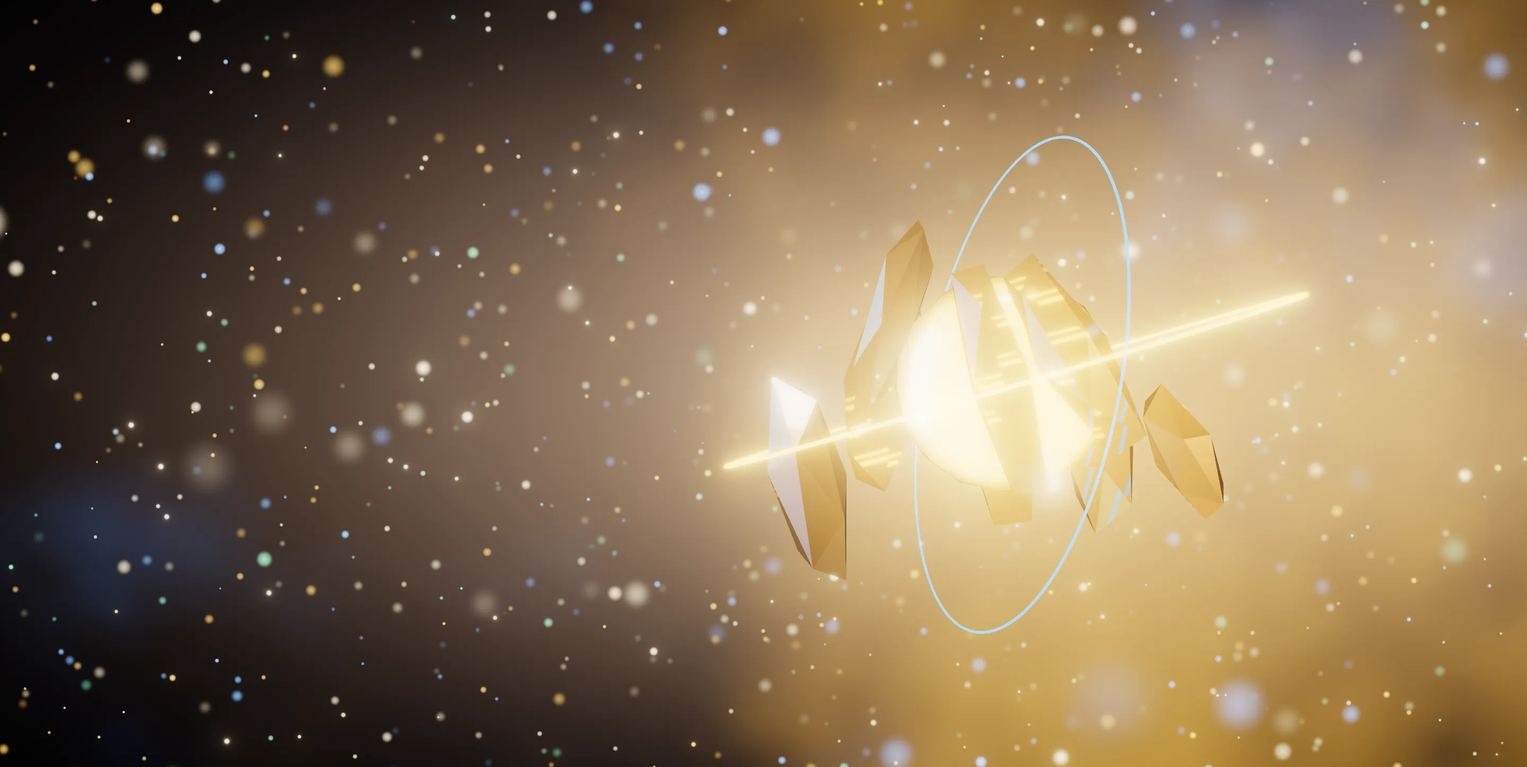
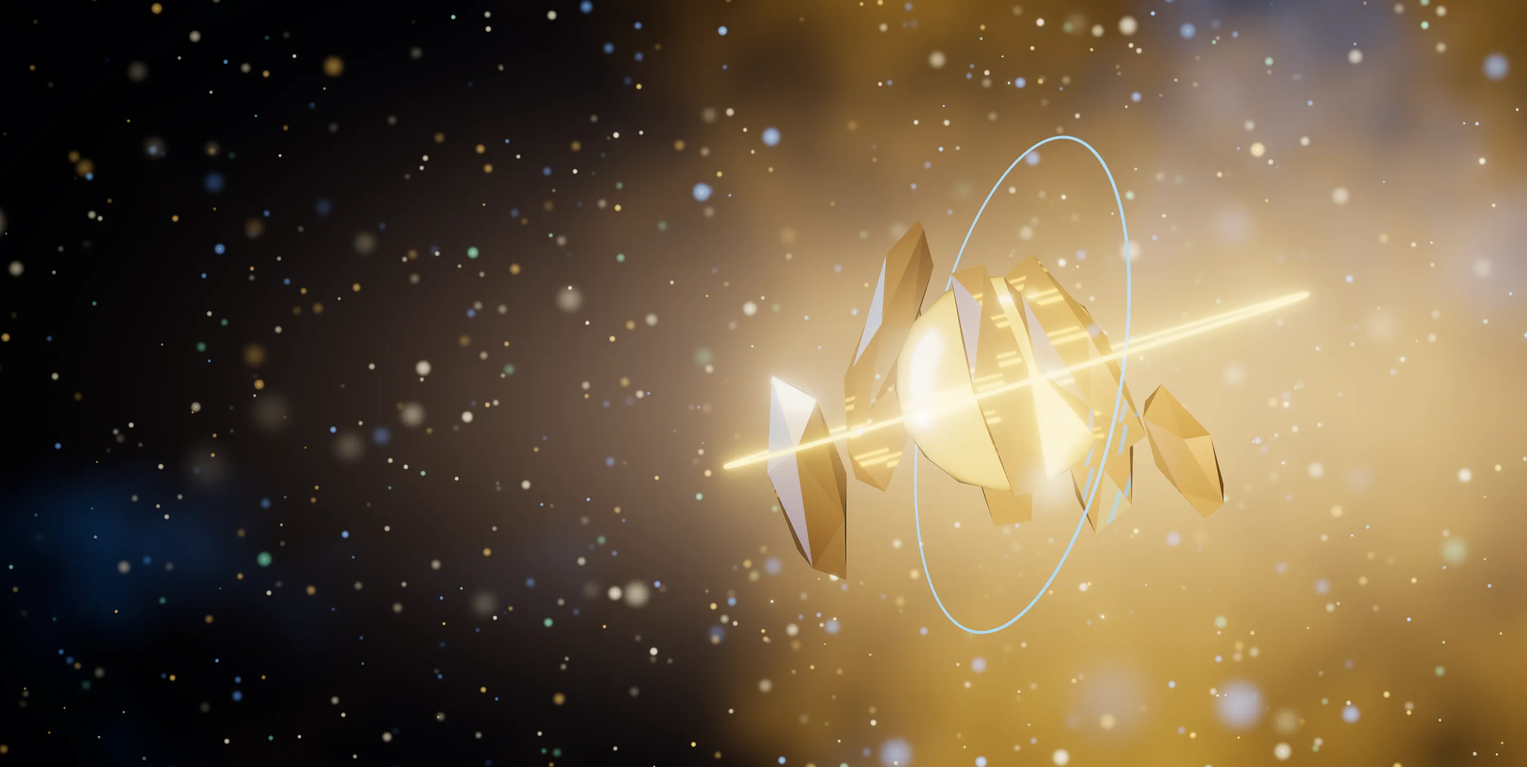
Visual pass v2: apply hero checkpoint steer (console contrast, bloom)
Per Ark's checkpoint review: the console card's glass is darker (ink fill
0.84->0.78, 40px blur, brightness 0.75), the four workflow chips are solid
glass pills, the closing paragraph is brighter, and bloom is pulled down
(0.5/0.7/0.74 -> 0.36/0.6/0.84) so the highlight behind the card no longer
blows out. The copy column also gets a stronger scrim, an ink halo behind
the copy block, dimmer particles on the copy side and a tighter aurora pool
so the headline and lede clear AA against the brightest frames.

Measured with .review/v2-contrast.mjs (text hidden, brightest backdrop over
four frames, 95th percentile): chips >= 15:1, panel text >= 8.5:1, h1 >= 8.4:1,
lede >= 6.9:1 on home, /services and /about. Posters re-rendered from the
final scene. Lighthouse medians unchanged: desktop 100, mobile 87.

diff --git a/assets/hero/hero-scene.min.js b/assets/hero/hero-scene.min.js
@@ -4310,7 +4310,7 @@ void main() {
 
 			#endif
 
-		}`};var qa=class extends Wt{constructor(){super(),this.isOutputPass=!0,this.uniforms=Pn.clone(Bs.uniforms),this.material=new Bi({name:Bs.name,uniforms:this.uniforms,vertexShader:Bs.vertexShader,fragmentShader:Bs.fragmentShader}),this._fsQuad=new jn(this.material),this._outputColorSpace=null,this._toneMapping=null}render(e,t,n){this.uniforms.tDiffuse.value=n.texture,this.uniforms.toneMappingExposure.value=e.toneMappingExposure,(this._outputColorSpace!==e.outputColorSpace||this._toneMapping!==e.toneMapping)&&(this._outputColorSpace=e.outputColorSpace,this._toneMapping=e.toneMapping,this.material.defines={},We.getTransfer(this._outputColorSpace)===$e&&(this.material.defines.SRGB_TRANSFER=""),this._toneMapping===vs?this.material.defines.LINEAR_TONE_MAPPING="":this._toneMapping===ys?this.material.defines.REINHARD_TONE_MAPPING="":this._toneMapping===Ms?this.material.defines.CINEON_TONE_MAPPING="":this._toneMapping===ui?this.material.defines.ACES_FILMIC_TONE_MAPPING="":this._toneMapping===bs?this.material.defines.AGX_TONE_MAPPING="":this._toneMapping===Ts?this.material.defines.NEUTRAL_TONE_MAPPING="":this._toneMapping===Ss&&(this.material.defines.CUSTOM_TONE_MAPPING=""),this.material.needsUpdate=!0),this.renderToScreen===!0?(e.setRenderTarget(null),this._fsQuad.render(e)):(e.setRenderTarget(t),this.clear&&e.clear(e.autoClearColor,e.autoClearDepth,e.autoClearStencil),this._fsQuad.render(e))}dispose(){this.material.dispose(),this._fsQuad.dispose()}};var oh=Math.PI/180,gl=34,zs=10,lh=-8,ch=6,ph=20260905,hh=461590,Jm=15119690,$m=4889574;var uh={home:{build:ng,particles:{full:2600,lite:900},desktop:{anchor:[.61,.06],scale:.94,leftDark:1,core:[.78,.48]},mobile:{anchor:[.74,.6],scale:.5,leftDark:.2,core:[.82,.8]}},services:{build:ig,particles:{full:1800,lite:700},desktop:{anchor:[.56,0],scale:.74,leftDark:1,core:[.76,.5]},mobile:{anchor:[.62,.5],scale:.38,leftDark:.2,core:[.8,.75]}},about:{build:sg,particles:{full:1800,lite:700},desktop:{anchor:[.5,0],scale:.88,leftDark:1,core:[.72,.5]},mobile:{anchor:[.66,.5],scale:.44,leftDark:.2,core:[.8,.75]}}},Km=`
+		}`};var qa=class extends Wt{constructor(){super(),this.isOutputPass=!0,this.uniforms=Pn.clone(Bs.uniforms),this.material=new Bi({name:Bs.name,uniforms:this.uniforms,vertexShader:Bs.vertexShader,fragmentShader:Bs.fragmentShader}),this._fsQuad=new jn(this.material),this._outputColorSpace=null,this._toneMapping=null}render(e,t,n){this.uniforms.tDiffuse.value=n.texture,this.uniforms.toneMappingExposure.value=e.toneMappingExposure,(this._outputColorSpace!==e.outputColorSpace||this._toneMapping!==e.toneMapping)&&(this._outputColorSpace=e.outputColorSpace,this._toneMapping=e.toneMapping,this.material.defines={},We.getTransfer(this._outputColorSpace)===$e&&(this.material.defines.SRGB_TRANSFER=""),this._toneMapping===vs?this.material.defines.LINEAR_TONE_MAPPING="":this._toneMapping===ys?this.material.defines.REINHARD_TONE_MAPPING="":this._toneMapping===Ms?this.material.defines.CINEON_TONE_MAPPING="":this._toneMapping===ui?this.material.defines.ACES_FILMIC_TONE_MAPPING="":this._toneMapping===bs?this.material.defines.AGX_TONE_MAPPING="":this._toneMapping===Ts?this.material.defines.NEUTRAL_TONE_MAPPING="":this._toneMapping===Ss&&(this.material.defines.CUSTOM_TONE_MAPPING=""),this.material.needsUpdate=!0),this.renderToScreen===!0?(e.setRenderTarget(null),this._fsQuad.render(e)):(e.setRenderTarget(t),this.clear&&e.clear(e.autoClearColor,e.autoClearDepth,e.autoClearStencil),this._fsQuad.render(e))}dispose(){this.material.dispose(),this._fsQuad.dispose()}};var oh=Math.PI/180,gl=34,zs=10,lh=-8,ch=6,ph=20260905,hh=461590,Jm=15119690,$m=4889574;var uh={home:{build:ng,particles:{full:2600,lite:900},desktop:{anchor:[.61,.06],scale:.94,leftDark:1,core:[.83,.46]},mobile:{anchor:[.74,.6],scale:.5,leftDark:.2,core:[.82,.8]}},services:{build:ig,particles:{full:1800,lite:700},desktop:{anchor:[.56,0],scale:.74,leftDark:1,core:[.81,.48]},mobile:{anchor:[.62,.5],scale:.38,leftDark:.2,core:[.8,.75]}},about:{build:sg,particles:{full:1800,lite:700},desktop:{anchor:[.5,0],scale:.88,leftDark:1,core:[.78,.48]},mobile:{anchor:[.66,.5],scale:.44,leftDark:.2,core:[.8,.75]}}},Km=`
   varying vec2 vUv;
   void main() {
     vUv = uv;
@@ -4373,7 +4373,7 @@ void main() {
 
     // A soft pool of light where the sculpture sits, so the glass has something to refract.
     vec2 d = (uv - uCore) * vec2(1.0, 1.35);
-    float core = exp(-dot(d, d) * 7.0);
+    float core = exp(-dot(d, d) * 11.0);
     col += (uGold * 0.72 + uBlue * 0.46) * core * (0.75 + 0.25 * n2);
 
     // Keep the copy column deep for contrast.
@@ -4394,6 +4394,7 @@ void main() {
   uniform float uScale;
   uniform float uFocus;
   uniform float uMaxSize;
+  uniform float uLeftDark;
   varying vec3 vColor;
   varying float vAlpha;
   varying float vSoft;
@@ -4409,9 +4410,12 @@ void main() {
     gl_PointSize = min(uMaxSize, size * uScale / max(dist, 0.5));
     float twinkle = 0.72 + 0.28 * sin(uTime * 1.4 + aPhase * 21.0);
     vAlpha = twinkle * mix(1.0, 0.14, blur) * smoothstep(0.6, 3.0, dist);
+    gl_Position = projectionMatrix * mv;
+    // Dim the field under the copy column so text never sits on a bright point.
+    float sx = gl_Position.x / gl_Position.w * 0.5 + 0.5;
+    vAlpha *= mix(1.0, 0.3, uLeftDark * smoothstep(0.62, 0.05, sx));
     vSoft = blur;
     vColor = aColor;
-    gl_Position = projectionMatrix * mv;
   }
 `,eg=`
   uniform float uAlpha;
@@ -4430,4 +4434,4 @@ void main() {
     #include <tonemapping_fragment>
     #include <colorspace_fragment>
   }
-`;function mh(i){let e=i>>>0;return()=>{e=e+1831565813>>>0;let t=e;return t=Math.imul(t^t>>>15,t|1),t^=t+Math.imul(t^t>>>7,t|61),((t^t>>>14)>>>0)/4294967296}}function tg(i){let e=new Wi(i),t=new Ni,n=new Ke(new Cn(24,24,16),new tn({color:659744,side:Rt}));t.add(n);let s=(a,o,l,c)=>{let u=new Ke(new Hn(c[0],c[1]),new tn({color:new Ae(a).multiplyScalar(o),side:Yt}));u.position.set(l[0],l[1],l[2]),u.lookAt(0,0,0),t.add(u)};s(16765562,7,[7,8,5],[10,4]),s(7320831,5,[-9,2,-4],[7,9]),s(16777215,10,[0,11,-2],[12,1.2]),s(9430205,3,[3,-9,3],[8,3]),s(15119690,4,[9,-3,7],[3,7]);let r=e.fromScene(t,.035).texture;return t.traverse(a=>{var o,l;(o=a.geometry)==null||o.dispose(),(l=a.material)==null||l.dispose()}),e.dispose(),r}function dh(i={}){return new ps({color:16777215,metalness:0,roughness:.09,transmission:1,thickness:1.6,ior:1.46,attenuationColor:new Ae(16112032),attenuationDistance:3.2,iridescence:.85,iridescenceIOR:1.35,iridescenceThicknessRange:[140,520],clearcoat:1,clearcoatRoughness:.06,envMapIntensity:1.35,specularIntensity:1,...i})}function fh(i,e){return new tn({color:new Ae(i).multiplyScalar(e)})}function ng(i,e){let t=new en,n=new Ke(new fs(1.42,.4,e?170:300,e?24:44,2,3),i.glass),s=new Ke(new Cn(.64,48,32),i.core),r=new Ke(new pn(2.55,.02,10,220),i.gold),a=new Ke(new pn(2.95,.013,10,240),i.blue);r.rotation.set(1.25,.2,0),a.rotation.set(.55,.9,.3);let o=[0,1,2,3].map(l=>{let c=new Ke(new ds(.24+l*.05,0),i.glass);return c.scale.set(1,1.7,1),c});return t.add(n,s,r,a,...o),{group:t,update(l){n.rotation.y=l*.12,n.rotation.x=Math.sin(l*.17)*.35,n.rotation.z=Math.cos(l*.11)*.2,s.scale.setScalar(1+Math.sin(l*.9)*.04),r.rotation.z=l*.08,r.rotation.x=1.25+Math.sin(l*.13)*.25,a.rotation.z=-l*.06,a.rotation.y=.9+Math.cos(l*.1)*.3,o.forEach((c,u)=>{let d=l*(.16+u*.035)+u*1.7,h=2.55+u*.28;c.position.set(Math.cos(d)*h,Math.sin(d*.7+u)*1.35,Math.sin(d)*h*.6),c.rotation.x=l*.5+u,c.rotation.y=l*.4})}}}function ig(i,e){let t=new en,n=new Ke(new Cn(1.12,e?40:72,e?28:48),i.glass),s=new Ke(new Cn(.5,40,28),i.core),r=[1.85,2.2,2.55].map((l,c)=>new Ke(new pn(l,.13-c*.03,e?16:28,e?110:180),i.glass));r[0].rotation.set(1.1,.3,0),r[1].rotation.set(.5,1.2,.4),r[2].rotation.set(1.9,-.6,.2);let a=new Ke(new pn(2.9,.016,10,240),i.gold);a.rotation.set(1.4,.4,0);let o=[0,1,2].map(l=>new Ke(new Cn(.16+l*.05,24,16),i.glass));return t.add(n,s,...r,a,...o),{group:t,update(l){n.rotation.y=l*.1,s.scale.setScalar(1+Math.sin(l*.8)*.05),r.forEach((c,u)=>{c.rotation.z+=0,c.rotation.y=(u%2?-1:1)*l*(.09+u*.03)+u,c.rotation.x=[1.1,.5,1.9][u]+Math.sin(l*.15+u)*.2}),a.rotation.z=l*.07,o.forEach((c,u)=>{let d=l*(.32-u*.05)+u*2.1,h=1.85+u*.35;c.position.set(Math.cos(d)*h,Math.sin(d)*h*.42,Math.sin(d+u)*h*.5)})}}}function sg(i,e){let t=new en,n=mh(ph+7),s=[],r=i.glass.clone();r.roughness=.04,r.attenuationColor=new Ae(16242060),r.attenuationDistance=1.6,r.iridescence=1,r.envMapIntensity=2;let a=i.core.clone();a.emissiveIntensity=1.1;for(let u=0;u<8;u+=1){let d=.4+n()*.46,h=new Ke(new Oi(d,0),r);h.scale.set(.55+n()*.2,1.5+n()*.9,.55+n()*.2);let p=u/8*Math.PI*2+n()*.5,x=.8+n()*1.3;h.position.set(Math.cos(p)*x,(n()-.5)*1.6,Math.sin(p)*x),h.rotation.set(n()*1.2-.6,p,n()*.8-.4),h.userData.spin=.05+n()*.08,s.push(h)}let o=new Ke(new Oi(1.05,e?1:2),a),l=new Ke(new pn(2.7,.018,10,220),i.gold),c=new Ke(new pn(2.3,.012,10,200),i.blue);return l.rotation.set(1.35,.2,0),c.rotation.set(.4,1.1,.5),t.add(o,l,c,...s),{group:t,update(u){t.rotation.y=u*.09,o.rotation.y=-u*.2,o.rotation.x=Math.sin(u*.3)*.4,o.scale.setScalar(1+Math.sin(u*.7)*.04),s.forEach((d,h)=>{d.rotation.y+=0,d.position.y+=Math.sin(u*.5+h)*9e-4,d.rotation.z=Math.sin(u*d.userData.spin*4+h)*.35}),l.rotation.z=u*.06,c.rotation.z=-u*.05}}}function rg(i,e){let t=new Float32Array(i*3),n=new Float32Array(i*3),s=new Float32Array(i),r=new Float32Array(i),a=[[16773583,.42],[16764778,.24],[8830975,.22],[9431231,.12]],o=new Ae;for(let c=0;c<i;c+=1){let u=e()<.12;t[c*3]=(e()*2-1)*9.5,t[c*3+1]=(e()*2-1)*5,t[c*3+2]=u?5+e()*2.5:-7+e()*12;let d=e(),h=a[0][0];for(let[p,x]of a)if(d-=x,d<=0){h=p;break}o.set(h),n[c*3]=o.r,n[c*3+1]=o.g,n[c*3+2]=o.b,s[c]=.05+e()*.11+(e()<.06?.16:0),r[c]=e()}let l=new yt;return l.setAttribute("position",new At(t,3)),l.setAttribute("aColor",new At(n,3)),l.setAttribute("aSize",new At(s,1)),l.setAttribute("aPhase",new At(r,1)),l}function mv(i){if(!i||i.dataset.heroMounted)return null;let e=uh[i.dataset.heroVariant]||uh.home,t=window.matchMedia("(pointer: coarse)").matches,n=window.matchMedia("(pointer: fine)").matches,s=t||(navigator.hardwareConcurrency||8)<=4,r=s?1.25:1.5,a=document.createElement("canvas");a.setAttribute("data-hero-canvas",""),a.setAttribute("aria-hidden","true");let o;try{o=new za({canvas:a,antialias:s,alpha:!1,powerPreference:s?"default":"high-performance"})}catch{return null}o.toneMapping=ui,o.toneMappingExposure=1.05,o.transmissionResolutionScale=s?.5:.75,o.setClearColor(hh,1);let l=mh(ph),c=new Ni,u=tg(o);c.environment=u;let d=new Dt(gl,1,.5,60);d.position.set(0,0,zs);let h=new ct({uniforms:{uTime:{value:0},uAspect:{value:1},uLeftDark:{value:1},uCore:{value:new Ce(.72,.5)},uInk:{value:new Ae(hh)},uGold:{value:new Ae(13145389)},uBlue:{value:new Ae(3043240)},uGreen:{value:new Ae(3115614)}},vertexShader:Km,fragmentShader:Qm,depthWrite:!1}),p=new Ke(new Hn(1,1),h);p.position.z=lh,p.frustumCulled=!1,c.add(p);let x={glass:dh(),core:dh({color:16769958,roughness:.18,thickness:.8,transmission:.85,emissive:new Ae(15119690),emissiveIntensity:.55,iridescence:.4}),gold:fh(Jm,2.6),blue:fh($m,2.2)},M=e.build(x,s);c.add(M.group);let m=rg(s?e.particles.lite:e.particles.full,l),f=new ct({uniforms:{uTime:{value:0},uScale:{value:300},uFocus:{value:zs},uMaxSize:{value:180},uAlpha:{value:.9}},vertexShader:jm,fragmentShader:eg,transparent:!0,depthWrite:!1,blending:hi}),y=new ls(m,f);y.frustumCulled=!1,c.add(y);let S=new ci(16766346,2.4);S.position.set(5,6,7);let T=new ci(7319807,1.9);T.position.set(-6,-3,-4);let C=new ci(9431231,.5);C.position.set(0,-6,3),c.add(S,T,C);let A=null,R=null;if(!s){let me=new xt(1,1,{type:wt,samples:4});A=new Wa(o,me),A.addPass(new Xa(c,d)),R=new Yi(new Ce(1,1),.5,.7,.74),A.addPass(R),A.addPass(new qa)}let _=ch,E=0,I=0,w=0,F=!0,H=!1,W=0,U=0,V=0,k=0,$=e.desktop;function j(me,De){M.update(me),h.uniforms.uTime.value=me,f.uniforms.uTime.value=me;let Ie=Math.min(1,De*2.2);V+=(W-V)*Ie,k+=(U-k)*Ie,d.position.x=Math.sin(me*.07)*.28+V*.5,d.position.y=Math.cos(me*.05)*.18-k*.34,d.position.z=zs+Math.sin(me*.04)*.25,d.lookAt(M.group.position.x*.35,M.group.position.y*.35,0)}function oe(){A?A.render():o.render(c,d)}function ve(me){if(w=0,H)return;if(s&&me-I<31){w=window.requestAnimationFrame(ve);return}let De=Math.min((me-E)/1e3,.05);E=me,I=me,_+=De,j(_,De),oe(),w=window.requestAnimationFrame(ve)}function ye(){let me=F&&!document.hidden&&!H;me&&!w?(E=performance.now(),w=window.requestAnimationFrame(ve)):!me&&w&&(window.cancelAnimationFrame(w),w=0)}function Xe(me,De,Ie){o.setPixelRatio(Ie),o.setSize(me,De,!1),d.aspect=me/De,d.updateProjectionMatrix(),A&&(A.setPixelRatio(Ie),A.setSize(me,De)),$=me<760?e.mobile:e.desktop;let lt=Math.tan(gl/2*oh)*zs,nt=lt*d.aspect;M.group.position.set($.anchor[0]*nt,$.anchor[1]*lt,0),M.group.scale.setScalar($.scale);let bt=2*(zs-lh)*Math.tan(gl/2*oh)*1.3;p.scale.set(bt*d.aspect,bt,1),h.uniforms.uAspect.value=d.aspect,h.uniforms.uLeftDark.value=$.leftDark,h.uniforms.uCore.value.set($.core[0],$.core[1]),f.uniforms.uScale.value=De*Ie*.62,f.uniforms.uMaxSize.value=150*Ie}function Ze(){let me=Math.max(1,i.clientWidth),De=Math.max(1,i.clientHeight);Xe(me,De,Math.min(window.devicePixelRatio||1,r)),w||(j(_,0),oe())}function Fe(me,De,Ie=ch,lt=.82,nt=1){let bt=Math.max(1,i.clientWidth),L=Math.max(1,i.clientHeight),pt=o.getPixelRatio();Xe(me,De,nt);let He=W,Qe=U;W=U=V=k=0,j(Ie,0),oe();let ce=a.toDataURL("image/webp",lt);return W=He,U=Qe,Xe(bt,L,pt),j(_,0),oe(),ce}let Y="IntersectionObserver"in window?new IntersectionObserver(me=>{F=me.some(De=>De.isIntersecting),ye()},{threshold:0}):null,le="ResizeObserver"in window?new ResizeObserver(Ze):null,ee=()=>ye(),Ee=me=>{W=me.clientX/window.innerWidth*2-1,U=me.clientY/window.innerHeight*2-1},Le=me=>{me.preventDefault(),i.classList.remove("is-ready"),w&&(window.cancelAnimationFrame(w),w=0)},we=()=>{i.classList.add("is-ready"),ye()};function tt(){H||(H=!0,w&&window.cancelAnimationFrame(w),w=0,Y==null||Y.disconnect(),le==null||le.disconnect(),document.removeEventListener("visibilitychange",ee),window.removeEventListener("pointermove",Ee),window.removeEventListener("pagehide",tt),a.removeEventListener("webglcontextlost",Le),a.removeEventListener("webglcontextrestored",we),i.classList.remove("is-ready"),delete i.dataset.heroMounted,delete i.heroScene,c.traverse(me=>{var De;(De=me.geometry)==null||De.dispose(),me.material&&!Object.values(x).includes(me.material)&&me.material.dispose()}),Object.values(x).forEach(me=>me.dispose()),h.dispose(),f.dispose(),u.dispose(),R==null||R.dispose(),A==null||A.renderTarget1.dispose(),A==null||A.renderTarget2.dispose(),o.dispose(),a.remove())}i.appendChild(a),i.dataset.heroMounted="1",Ze(),j(_,0),oe(),i.classList.add("is-ready"),Y==null||Y.observe(i),le==null||le.observe(i),document.addEventListener("visibilitychange",ee),n&&window.addEventListener("pointermove",Ee,{passive:!0}),window.addEventListener("pagehide",tt,{once:!0}),a.addEventListener("webglcontextlost",Le),a.addEventListener("webglcontextrestored",we),ye();let ke={snapshot:Fe,dispose:tt,resize:Ze,lite:s,get running(){return w!==0}};return i.heroScene=ke,ke}export{mv as mountHeroScene};
+`;function mh(i){let e=i>>>0;return()=>{e=e+1831565813>>>0;let t=e;return t=Math.imul(t^t>>>15,t|1),t^=t+Math.imul(t^t>>>7,t|61),((t^t>>>14)>>>0)/4294967296}}function tg(i){let e=new Wi(i),t=new Ni,n=new Ke(new Cn(24,24,16),new tn({color:659744,side:Rt}));t.add(n);let s=(a,o,l,c)=>{let u=new Ke(new Hn(c[0],c[1]),new tn({color:new Ae(a).multiplyScalar(o),side:Yt}));u.position.set(l[0],l[1],l[2]),u.lookAt(0,0,0),t.add(u)};s(16765562,7,[7,8,5],[10,4]),s(7320831,5,[-9,2,-4],[7,9]),s(16777215,10,[0,11,-2],[12,1.2]),s(9430205,3,[3,-9,3],[8,3]),s(15119690,4,[9,-3,7],[3,7]);let r=e.fromScene(t,.035).texture;return t.traverse(a=>{var o,l;(o=a.geometry)==null||o.dispose(),(l=a.material)==null||l.dispose()}),e.dispose(),r}function dh(i={}){return new ps({color:16777215,metalness:0,roughness:.09,transmission:1,thickness:1.6,ior:1.46,attenuationColor:new Ae(16112032),attenuationDistance:3.2,iridescence:.85,iridescenceIOR:1.35,iridescenceThicknessRange:[140,520],clearcoat:1,clearcoatRoughness:.06,envMapIntensity:1.35,specularIntensity:1,...i})}function fh(i,e){return new tn({color:new Ae(i).multiplyScalar(e)})}function ng(i,e){let t=new en,n=new Ke(new fs(1.42,.4,e?170:300,e?24:44,2,3),i.glass),s=new Ke(new Cn(.64,48,32),i.core),r=new Ke(new pn(2.55,.02,10,220),i.gold),a=new Ke(new pn(2.95,.013,10,240),i.blue);r.rotation.set(1.25,.2,0),a.rotation.set(.55,.9,.3);let o=[0,1,2,3].map(l=>{let c=new Ke(new ds(.24+l*.05,0),i.glass);return c.scale.set(1,1.7,1),c});return t.add(n,s,r,a,...o),{group:t,update(l){n.rotation.y=l*.12,n.rotation.x=Math.sin(l*.17)*.35,n.rotation.z=Math.cos(l*.11)*.2,s.scale.setScalar(1+Math.sin(l*.9)*.04),r.rotation.z=l*.08,r.rotation.x=1.25+Math.sin(l*.13)*.25,a.rotation.z=-l*.06,a.rotation.y=.9+Math.cos(l*.1)*.3,o.forEach((c,u)=>{let d=l*(.16+u*.035)+u*1.7,h=2.55+u*.28;c.position.set(Math.cos(d)*h,Math.sin(d*.7+u)*1.35,Math.sin(d)*h*.6),c.rotation.x=l*.5+u,c.rotation.y=l*.4})}}}function ig(i,e){let t=new en,n=new Ke(new Cn(1.12,e?40:72,e?28:48),i.glass),s=new Ke(new Cn(.5,40,28),i.core),r=[1.85,2.2,2.55].map((l,c)=>new Ke(new pn(l,.13-c*.03,e?16:28,e?110:180),i.glass));r[0].rotation.set(1.1,.3,0),r[1].rotation.set(.5,1.2,.4),r[2].rotation.set(1.9,-.6,.2);let a=new Ke(new pn(2.9,.016,10,240),i.gold);a.rotation.set(1.4,.4,0);let o=[0,1,2].map(l=>new Ke(new Cn(.16+l*.05,24,16),i.glass));return t.add(n,s,...r,a,...o),{group:t,update(l){n.rotation.y=l*.1,s.scale.setScalar(1+Math.sin(l*.8)*.05),r.forEach((c,u)=>{c.rotation.z+=0,c.rotation.y=(u%2?-1:1)*l*(.09+u*.03)+u,c.rotation.x=[1.1,.5,1.9][u]+Math.sin(l*.15+u)*.2}),a.rotation.z=l*.07,o.forEach((c,u)=>{let d=l*(.32-u*.05)+u*2.1,h=1.85+u*.35;c.position.set(Math.cos(d)*h,Math.sin(d)*h*.42,Math.sin(d+u)*h*.5)})}}}function sg(i,e){let t=new en,n=mh(ph+7),s=[],r=i.glass.clone();r.roughness=.04,r.attenuationColor=new Ae(16242060),r.attenuationDistance=1.6,r.iridescence=1,r.envMapIntensity=2;let a=i.core.clone();a.emissiveIntensity=1.1;for(let u=0;u<8;u+=1){let d=.4+n()*.46,h=new Ke(new Oi(d,0),r);h.scale.set(.55+n()*.2,1.5+n()*.9,.55+n()*.2);let p=u/8*Math.PI*2+n()*.5,x=.8+n()*1.3;h.position.set(Math.cos(p)*x,(n()-.5)*1.6,Math.sin(p)*x),h.rotation.set(n()*1.2-.6,p,n()*.8-.4),h.userData.spin=.05+n()*.08,s.push(h)}let o=new Ke(new Oi(1.05,e?1:2),a),l=new Ke(new pn(2.7,.018,10,220),i.gold),c=new Ke(new pn(2.3,.012,10,200),i.blue);return l.rotation.set(1.35,.2,0),c.rotation.set(.4,1.1,.5),t.add(o,l,c,...s),{group:t,update(u){t.rotation.y=u*.09,o.rotation.y=-u*.2,o.rotation.x=Math.sin(u*.3)*.4,o.scale.setScalar(1+Math.sin(u*.7)*.04),s.forEach((d,h)=>{d.rotation.y+=0,d.position.y+=Math.sin(u*.5+h)*9e-4,d.rotation.z=Math.sin(u*d.userData.spin*4+h)*.35}),l.rotation.z=u*.06,c.rotation.z=-u*.05}}}function rg(i,e){let t=new Float32Array(i*3),n=new Float32Array(i*3),s=new Float32Array(i),r=new Float32Array(i),a=[[16773583,.42],[16764778,.24],[8830975,.22],[9431231,.12]],o=new Ae;for(let c=0;c<i;c+=1){let u=e()<.12;t[c*3]=(e()*2-1)*9.5,t[c*3+1]=(e()*2-1)*5,t[c*3+2]=u?5+e()*2.5:-7+e()*12;let d=e(),h=a[0][0];for(let[p,x]of a)if(d-=x,d<=0){h=p;break}o.set(h),n[c*3]=o.r,n[c*3+1]=o.g,n[c*3+2]=o.b,s[c]=.05+e()*.11+(e()<.06?.16:0),r[c]=e()}let l=new yt;return l.setAttribute("position",new At(t,3)),l.setAttribute("aColor",new At(n,3)),l.setAttribute("aSize",new At(s,1)),l.setAttribute("aPhase",new At(r,1)),l}function mv(i){if(!i||i.dataset.heroMounted)return null;let e=uh[i.dataset.heroVariant]||uh.home,t=window.matchMedia("(pointer: coarse)").matches,n=window.matchMedia("(pointer: fine)").matches,s=t||(navigator.hardwareConcurrency||8)<=4,r=s?1.25:1.5,a=document.createElement("canvas");a.setAttribute("data-hero-canvas",""),a.setAttribute("aria-hidden","true");let o;try{o=new za({canvas:a,antialias:s,alpha:!1,powerPreference:s?"default":"high-performance"})}catch{return null}o.toneMapping=ui,o.toneMappingExposure=1.05,o.transmissionResolutionScale=s?.5:.75,o.setClearColor(hh,1);let l=mh(ph),c=new Ni,u=tg(o);c.environment=u;let d=new Dt(gl,1,.5,60);d.position.set(0,0,zs);let h=new ct({uniforms:{uTime:{value:0},uAspect:{value:1},uLeftDark:{value:1},uCore:{value:new Ce(.72,.5)},uInk:{value:new Ae(hh)},uGold:{value:new Ae(13145389)},uBlue:{value:new Ae(3043240)},uGreen:{value:new Ae(3115614)}},vertexShader:Km,fragmentShader:Qm,depthWrite:!1}),p=new Ke(new Hn(1,1),h);p.position.z=lh,p.frustumCulled=!1,c.add(p);let x={glass:dh(),core:dh({color:16769958,roughness:.18,thickness:.8,transmission:.85,emissive:new Ae(15119690),emissiveIntensity:.55,iridescence:.4}),gold:fh(Jm,2.6),blue:fh($m,2.2)},M=e.build(x,s);c.add(M.group);let m=rg(s?e.particles.lite:e.particles.full,l),f=new ct({uniforms:{uTime:{value:0},uScale:{value:300},uFocus:{value:zs},uMaxSize:{value:180},uAlpha:{value:.9},uLeftDark:{value:1}},vertexShader:jm,fragmentShader:eg,transparent:!0,depthWrite:!1,blending:hi}),y=new ls(m,f);y.frustumCulled=!1,c.add(y);let S=new ci(16766346,2.4);S.position.set(5,6,7);let T=new ci(7319807,1.9);T.position.set(-6,-3,-4);let C=new ci(9431231,.5);C.position.set(0,-6,3),c.add(S,T,C);let A=null,R=null;if(!s){let me=new xt(1,1,{type:wt,samples:4});A=new Wa(o,me),A.addPass(new Xa(c,d)),R=new Yi(new Ce(1,1),.36,.6,.84),A.addPass(R),A.addPass(new qa)}let _=ch,E=0,I=0,w=0,F=!0,H=!1,W=0,U=0,V=0,k=0,$=e.desktop;function j(me,De){M.update(me),h.uniforms.uTime.value=me,f.uniforms.uTime.value=me;let Ie=Math.min(1,De*2.2);V+=(W-V)*Ie,k+=(U-k)*Ie,d.position.x=Math.sin(me*.07)*.28+V*.5,d.position.y=Math.cos(me*.05)*.18-k*.34,d.position.z=zs+Math.sin(me*.04)*.25,d.lookAt(M.group.position.x*.35,M.group.position.y*.35,0)}function oe(){A?A.render():o.render(c,d)}function ve(me){if(w=0,H)return;if(s&&me-I<31){w=window.requestAnimationFrame(ve);return}let De=Math.min((me-E)/1e3,.05);E=me,I=me,_+=De,j(_,De),oe(),w=window.requestAnimationFrame(ve)}function ye(){let me=F&&!document.hidden&&!H;me&&!w?(E=performance.now(),w=window.requestAnimationFrame(ve)):!me&&w&&(window.cancelAnimationFrame(w),w=0)}function Xe(me,De,Ie){o.setPixelRatio(Ie),o.setSize(me,De,!1),d.aspect=me/De,d.updateProjectionMatrix(),A&&(A.setPixelRatio(Ie),A.setSize(me,De)),$=me<760?e.mobile:e.desktop;let lt=Math.tan(gl/2*oh)*zs,nt=lt*d.aspect;M.group.position.set($.anchor[0]*nt,$.anchor[1]*lt,0),M.group.scale.setScalar($.scale);let bt=2*(zs-lh)*Math.tan(gl/2*oh)*1.3;p.scale.set(bt*d.aspect,bt,1),h.uniforms.uAspect.value=d.aspect,h.uniforms.uLeftDark.value=$.leftDark,h.uniforms.uCore.value.set($.core[0],$.core[1]),f.uniforms.uScale.value=De*Ie*.62,f.uniforms.uMaxSize.value=150*Ie,f.uniforms.uLeftDark.value=$.leftDark}function Ze(){let me=Math.max(1,i.clientWidth),De=Math.max(1,i.clientHeight);Xe(me,De,Math.min(window.devicePixelRatio||1,r)),w||(j(_,0),oe())}function Fe(me,De,Ie=ch,lt=.82,nt=1){let bt=Math.max(1,i.clientWidth),L=Math.max(1,i.clientHeight),pt=o.getPixelRatio();Xe(me,De,nt);let He=W,Qe=U;W=U=V=k=0,j(Ie,0),oe();let ce=a.toDataURL("image/webp",lt);return W=He,U=Qe,Xe(bt,L,pt),j(_,0),oe(),ce}let Y="IntersectionObserver"in window?new IntersectionObserver(me=>{F=me.some(De=>De.isIntersecting),ye()},{threshold:0}):null,le="ResizeObserver"in window?new ResizeObserver(Ze):null,ee=()=>ye(),Ee=me=>{W=me.clientX/window.innerWidth*2-1,U=me.clientY/window.innerHeight*2-1},Le=me=>{me.preventDefault(),i.classList.remove("is-ready"),w&&(window.cancelAnimationFrame(w),w=0)},we=()=>{i.classList.add("is-ready"),ye()};function tt(){H||(H=!0,w&&window.cancelAnimationFrame(w),w=0,Y==null||Y.disconnect(),le==null||le.disconnect(),document.removeEventListener("visibilitychange",ee),window.removeEventListener("pointermove",Ee),window.removeEventListener("pagehide",tt),a.removeEventListener("webglcontextlost",Le),a.removeEventListener("webglcontextrestored",we),i.classList.remove("is-ready"),delete i.dataset.heroMounted,delete i.heroScene,c.traverse(me=>{var De;(De=me.geometry)==null||De.dispose(),me.material&&!Object.values(x).includes(me.material)&&me.material.dispose()}),Object.values(x).forEach(me=>me.dispose()),h.dispose(),f.dispose(),u.dispose(),R==null||R.dispose(),A==null||A.renderTarget1.dispose(),A==null||A.renderTarget2.dispose(),o.dispose(),a.remove())}i.appendChild(a),i.dataset.heroMounted="1",Ze(),j(_,0),oe(),i.classList.add("is-ready"),Y==null||Y.observe(i),le==null||le.observe(i),document.addEventListener("visibilitychange",ee),n&&window.addEventListener("pointermove",Ee,{passive:!0}),window.addEventListener("pagehide",tt,{once:!0}),a.addEventListener("webglcontextlost",Le),a.addEventListener("webglcontextrestored",we),ye();let ke={snapshot:Fe,dispose:tt,resize:Ze,lite:s,get running(){return w!==0}};return i.heroScene=ke,ke}export{mv as mountHeroScene};

diff --git a/styles.css b/styles.css
@@ -4355,7 +4355,7 @@ body[data-theme="stage"][data-page]:not([data-page="book"]) .hero-stage-scrim {
   z-index: 1;
   pointer-events: none;
   background:
-    linear-gradient(90deg, rgba(7, 11, 22, 0.86) 0%, rgba(7, 11, 22, 0.66) 32%, rgba(7, 11, 22, 0.22) 54%, rgba(7, 11, 22, 0) 74%),
+    linear-gradient(90deg, rgba(7, 11, 22, 0.92) 0%, rgba(7, 11, 22, 0.86) 42%, rgba(7, 11, 22, 0.62) 58%, rgba(7, 11, 22, 0.2) 72%, rgba(7, 11, 22, 0) 84%),
     linear-gradient(180deg, rgba(7, 11, 22, 0.42) 0%, rgba(7, 11, 22, 0) 24%, rgba(7, 11, 22, 0) 68%, rgba(7, 11, 22, 0.62) 100%);
 }
 
@@ -4363,6 +4363,23 @@ body[data-theme="stage"][data-page]:not([data-page="book"]) .hero-layout,
 body[data-theme="stage"][data-page]:not([data-page="book"]) .page-hero-layout {
   position: relative;
   z-index: 3;
+}
+
+/* A soft ink halo behind the copy block keeps the headline and lede AA where the aurora is brightest. */
+body[data-theme="stage"][data-page]:not([data-page="book"]) .hero-copy,
+body[data-theme="stage"][data-page]:not([data-page="book"]) .page-hero-layout > div:first-child {
+  position: relative;
+  isolation: isolate;
+}
+
+body[data-theme="stage"][data-page]:not([data-page="book"]) .hero-copy::before,
+body[data-theme="stage"][data-page]:not([data-page="book"]) .page-hero-layout > div:first-child::before {
+  content: "";
+  position: absolute;
+  inset: -60px -140px -60px -160px;
+  z-index: -1;
+  background: radial-gradient(ellipse 66% 72% at 40% 50%, rgba(7, 11, 22, 0.86) 0%, rgba(7, 11, 22, 0.6) 48%, rgba(7, 11, 22, 0) 74%);
+  pointer-events: none;
 }
 
 body[data-theme="stage"][data-page]:not([data-page="book"]) .page-hero-layout {
@@ -4400,7 +4417,7 @@ body[data-theme="stage"][data-page]:not([data-page="book"]) .page-hero h1 {
 
 body[data-theme="stage"][data-page]:not([data-page="book"]) .hero-lede,
 body[data-theme="stage"][data-page]:not([data-page="book"]) .page-lede {
-  color: rgba(226, 231, 242, 0.84);
+  color: #e4e9f3;
 }
 
 body[data-theme="stage"][data-page]:not([data-page="book"]) .hero-brand-details {
@@ -4461,17 +4478,17 @@ body[data-theme="stage"][data-page]:not([data-page="book"]) .founder-card {
   border: 1px solid transparent;
   border-radius: 20px;
   background:
-    linear-gradient(160deg, rgba(255, 255, 255, 0.1) 0%, rgba(255, 255, 255, 0.04) 42%, rgba(255, 255, 255, 0.02) 100%) padding-box,
-    linear-gradient(160deg, rgba(12, 17, 31, 0.74), rgba(7, 11, 22, 0.62)) padding-box,
+    linear-gradient(160deg, rgba(255, 255, 255, 0.08) 0%, rgba(255, 255, 255, 0.03) 42%, rgba(255, 255, 255, 0.015) 100%) padding-box,
+    linear-gradient(160deg, rgba(10, 15, 28, 0.84), rgba(7, 11, 22, 0.78)) padding-box,
     var(--stage-border) border-box;
   box-shadow:
-    inset 0 1px 0 rgba(255, 255, 255, 0.28),
-    inset 0 0 70px rgba(230, 181, 74, 0.06),
+    inset 0 1px 0 rgba(255, 255, 255, 0.26),
+    inset 0 0 70px rgba(230, 181, 74, 0.05),
     0 30px 80px -30px rgba(0, 0, 0, 0.85),
     0 0 0 1px rgba(0, 0, 0, 0.25);
   color: var(--stage-text);
-  backdrop-filter: blur(28px) saturate(1.4) brightness(0.85);
-  -webkit-backdrop-filter: blur(28px) saturate(1.4) brightness(0.85);
+  backdrop-filter: blur(40px) saturate(1.2) brightness(0.75);
+  -webkit-backdrop-filter: blur(40px) saturate(1.2) brightness(0.75);
 }
 
 body[data-theme="stage"][data-page]:not([data-page="book"]) .hero-system-panel::before {
@@ -4506,12 +4523,15 @@ body[data-theme="stage"][data-page]:not([data-page="book"]) .system-panel-header
   color: #fff;
 }
 
+/* Chips are solid glass pills (opaque dark surface) so the labels never depend on the scene behind. */
 body[data-theme="stage"][data-page]:not([data-page="book"]) .system-flow span {
-  border-color: rgba(255, 255, 255, 0.1);
+  border: 1px solid rgba(255, 255, 255, 0.14);
   border-left: 3px solid var(--stage-gold);
-  border-radius: 10px;
-  background: linear-gradient(160deg, rgba(255, 255, 255, 0.09), rgba(255, 255, 255, 0.04));
-  box-shadow: inset 0 1px 0 rgba(255, 255, 255, 0.1);
+  border-radius: 12px;
+  background: linear-gradient(160deg, #1c2642 0%, #131b30 100%);
+  box-shadow:
+    inset 0 1px 0 rgba(255, 255, 255, 0.14),
+    0 10px 24px -14px rgba(0, 0, 0, 0.85);
   color: #fff;
 }
 
@@ -4535,7 +4555,7 @@ body[data-theme="stage"][data-page]:not([data-page="book"]) .system-terminal spa
 body[data-theme="stage"][data-page]:not([data-page="book"]) .hero-system-panel > p,
 body[data-theme="stage"][data-page]:not([data-page="book"]) .page-panel p:not(.eyebrow),
 body[data-theme="stage"][data-page]:not([data-page="book"]) .founder-card p:not(.eyebrow) {
-  color: rgba(226, 231, 242, 0.78);
+  color: rgba(236, 240, 248, 0.9);
 }
 
 body[data-theme="stage"][data-page]:not([data-page="book"]) .page-panel h2,
@@ -5242,7 +5262,13 @@ body[data-theme="stage"][data-page]:not([data-page="book"]) .founder-card.tilt:h
 
   body[data-theme="stage"][data-page]:not([data-page="book"]) .hero-stage-scrim {
     background:
-      linear-gradient(180deg, rgba(7, 11, 22, 0.66) 0%, rgba(7, 11, 22, 0.5) 40%, rgba(7, 11, 22, 0.5) 72%, rgba(7, 11, 22, 0.78) 100%);
+      linear-gradient(180deg, rgba(7, 11, 22, 0.72) 0%, rgba(7, 11, 22, 0.58) 40%, rgba(7, 11, 22, 0.58) 72%, rgba(7, 11, 22, 0.8) 100%);
+  }
+
+  body[data-theme="stage"][data-page]:not([data-page="book"]) .hero-copy::before,
+  body[data-theme="stage"][data-page]:not([data-page="book"]) .page-hero-layout > div:first-child::before {
+    inset: -30px -40px;
+    background: radial-gradient(ellipse 70% 70% at 50% 50%, rgba(7, 11, 22, 0.7) 0%, rgba(7, 11, 22, 0.4) 50%, rgba(7, 11, 22, 0) 75%);
   }
 
   body[data-theme="stage"][data-page]:not([data-page="book"]) .hero h1,

diff --git a/assets/hero/hero-scene.src.js b/assets/hero/hero-scene.src.js
@@ -67,19 +67,19 @@ const VARIANTS = {
   home: {
     build: buildKnot,
     particles: { full: 2600, lite: 900 },
-    desktop: { anchor: [0.61, 0.06], scale: 0.94, leftDark: 1, core: [0.78, 0.48] },
+    desktop: { anchor: [0.61, 0.06], scale: 0.94, leftDark: 1, core: [0.83, 0.46] },
     mobile: { anchor: [0.74, 0.6], scale: 0.5, leftDark: 0.2, core: [0.82, 0.8] },
   },
   services: {
     build: buildOrbit,
     particles: { full: 1800, lite: 700 },
-    desktop: { anchor: [0.56, 0.0], scale: 0.74, leftDark: 1, core: [0.76, 0.5] },
+    desktop: { anchor: [0.56, 0.0], scale: 0.74, leftDark: 1, core: [0.81, 0.48] },
     mobile: { anchor: [0.62, 0.5], scale: 0.38, leftDark: 0.2, core: [0.8, 0.75] },
   },
   about: {
     build: buildCluster,
     particles: { full: 1800, lite: 700 },
-    desktop: { anchor: [0.5, 0.0], scale: 0.88, leftDark: 1, core: [0.72, 0.5] },
+    desktop: { anchor: [0.5, 0.0], scale: 0.88, leftDark: 1, core: [0.78, 0.48] },
     mobile: { anchor: [0.66, 0.5], scale: 0.44, leftDark: 0.2, core: [0.8, 0.75] },
   },
 };
@@ -149,7 +149,7 @@ const AURORA_FRAGMENT = /* glsl */ `
 
     // A soft pool of light where the sculpture sits, so the glass has something to refract.
     vec2 d = (uv - uCore) * vec2(1.0, 1.35);
-    float core = exp(-dot(d, d) * 7.0);
+    float core = exp(-dot(d, d) * 11.0);
     col += (uGold * 0.72 + uBlue * 0.46) * core * (0.75 + 0.25 * n2);
 
     // Keep the copy column deep for contrast.
@@ -172,6 +172,7 @@ const POINT_VERTEX = /* glsl */ `
   uniform float uScale;
   uniform float uFocus;
   uniform float uMaxSize;
+  uniform float uLeftDark;
   varying vec3 vColor;
   varying float vAlpha;
   varying float vSoft;
@@ -187,9 +188,12 @@ const POINT_VERTEX = /* glsl */ `
     gl_PointSize = min(uMaxSize, size * uScale / max(dist, 0.5));
     float twinkle = 0.72 + 0.28 * sin(uTime * 1.4 + aPhase * 21.0);
     vAlpha = twinkle * mix(1.0, 0.14, blur) * smoothstep(0.6, 3.0, dist);
+    gl_Position = projectionMatrix * mv;
+    // Dim the field under the copy column so text never sits on a bright point.
+    float sx = gl_Position.x / gl_Position.w * 0.5 + 0.5;
+    vAlpha *= mix(1.0, 0.3, uLeftDark * smoothstep(0.62, 0.05, sx));
     vSoft = blur;
     vColor = aColor;
-    gl_Position = projectionMatrix * mv;
   }
 `;
 
@@ -520,6 +524,7 @@ export function mountHeroScene(host) {
       uFocus: { value: CAMERA_Z },
       uMaxSize: { value: 180 },
       uAlpha: { value: 0.9 },
+      uLeftDark: { value: 1 },
     },
     vertexShader: POINT_VERTEX,
     fragmentShader: POINT_FRAGMENT,
@@ -546,7 +551,8 @@ export function mountHeroScene(host) {
     const target = new WebGLRenderTarget(1, 1, { type: HalfFloatType, samples: 4 });
     composer = new EffectComposer(renderer, target);
     composer.addPass(new RenderPass(scene, camera));
-    bloomPass = new UnrealBloomPass(new Vector2(1, 1), 0.5, 0.7, 0.74);
+    // Strength/threshold kept modest so the ring highlights glow without blowing out the glass panels.
+    bloomPass = new UnrealBloomPass(new Vector2(1, 1), 0.36, 0.6, 0.84);
     composer.addPass(bloomPass);
     composer.addPass(new OutputPass());
   }
@@ -633,6 +639,7 @@ export function mountHeroScene(host) {
     auroraMaterial.uniforms.uCore.value.set(layout.core[0], layout.core[1]);
     particleMaterial.uniforms.uScale.value = height * pixelRatio * 0.62;
     particleMaterial.uniforms.uMaxSize.value = 150 * pixelRatio;
+    particleMaterial.uniforms.uLeftDark.value = layout.leftDark;
   }
 
   function resize() {
